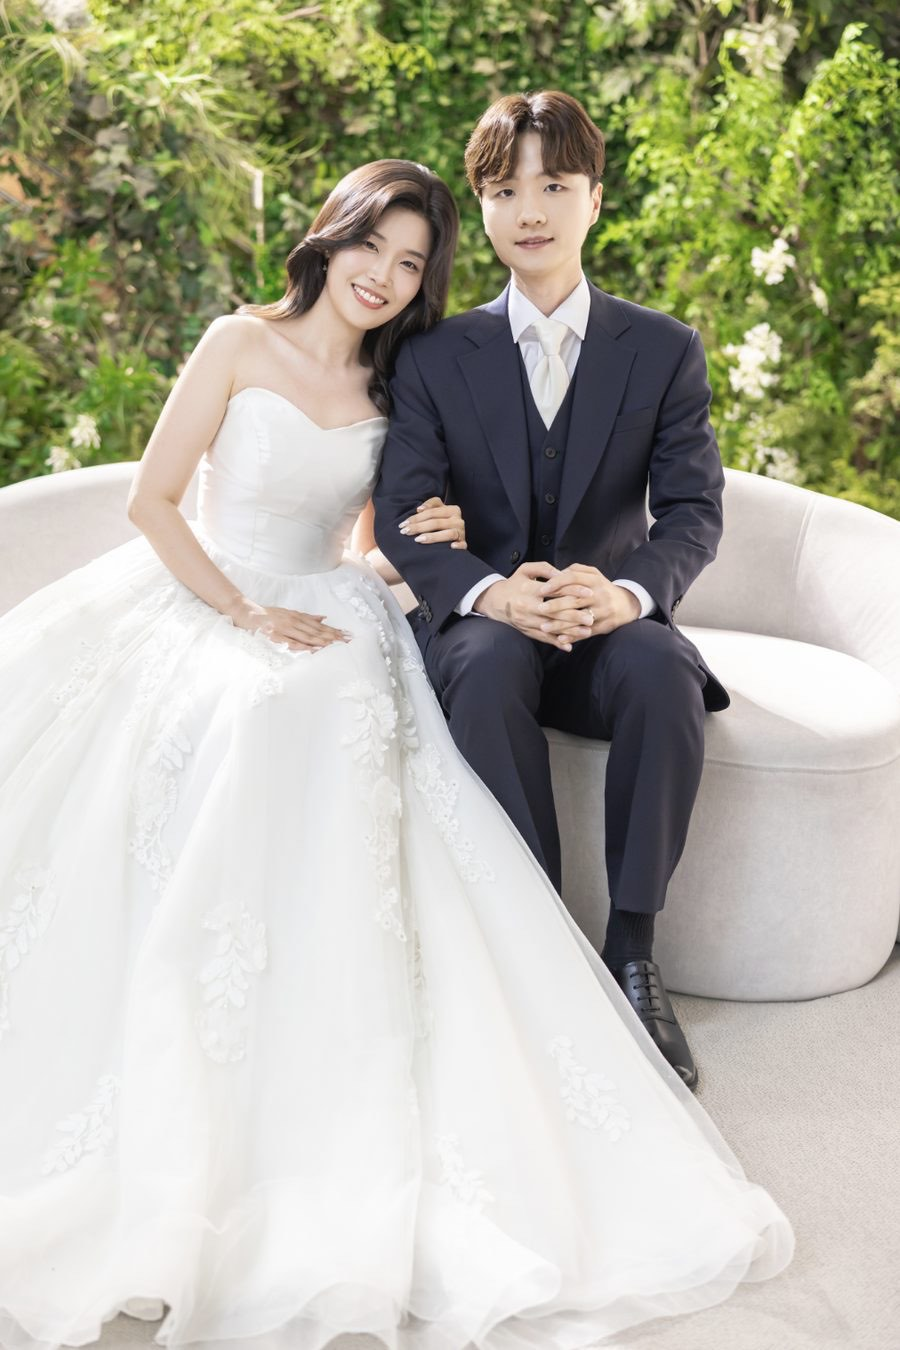
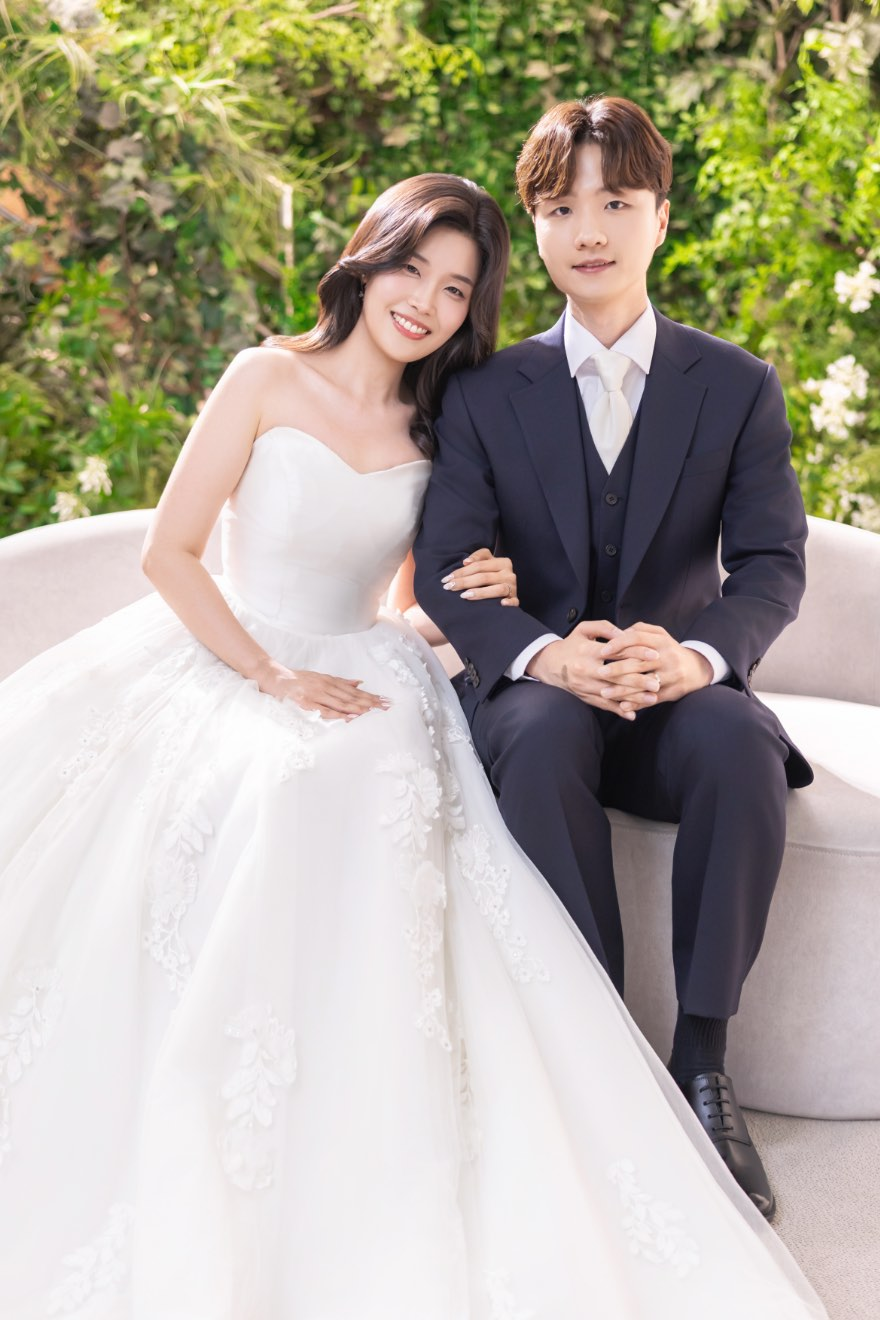
14번 사진 교체 + 신랑 오른쪽 빈 공간 줄이기
같은 가든 소파 두 사람 컷의 새 보정본입니다. 880x1320 으로 잘라
나머지와 같은 2:3 (0.66667) 에 맞췄습니다.

신랑 오른쪽에 소파·초목이 빈 띠처럼 남던 문제: 넘겨받은 원본이
980x1496 (0.655) 로 2:3 보다 좁아서 가로 여유가 0 이라, to_portrait
로는 좌우를 옮길 수 없었습니다. 그래서 오른쪽을 100px 덜어낸 파일을
imgs/I_가든소파두사람.png 로 만들어 원본 자리에 넣었습니다
(build_assets.py 에 이유를 주석으로 남김).

덜어낼 양은 0 / 60 / 100 / 140px 을 나란히 비교해 골랐습니다. 140 은
신랑 어깨가 프레임에 붙어 답답하고, 60 은 빈 띠가 아직 보입니다.

확인: 22장 비율 전부 0.66667(+가로 1장), 썸네일<->원본 22쌍 픽셀 대조
전부 일치, 캐시 없는 프로필에서 로드 실패 0건 / 버전 누락 0건,
14번 탭 -> g14.jpg "14 / 22" (880x1320).

Assisted-by: Claude Code (Opus 5)

diff --git a/index.html b/index.html
@@ -10,7 +10,7 @@
 <meta property="og:title" content="이수영 ♥ 이정은 결혼합니다">
 <meta property="og:description" content="2026년 12월 12일 토요일 오후 4시, 세인트메리엘 1층 메리엘홀">
 <meta property="og:url" content="https://suyoung-lee.github.io/wedding/">
-<meta property="og:image" content="https://suyoung-lee.github.io/wedding/assets/og.jpg?v=8">
+<meta property="og:image" content="https://suyoung-lee.github.io/wedding/assets/og.jpg?v=9">
 <meta name="description" content="2026년 12월 12일 토요일 오후 4시, 세인트메리엘 1층 메리엘홀">
 <meta name="theme-color" content="#fbfaf7">
 
@@ -283,7 +283,7 @@
   <!-- ══════════ 표지 ══════════ -->
   <header class="cover">
     <div class="photo noSave">
-      <img src="assets/cover.jpg?v=8" alt="신랑 이수영, 신부 이정은" draggable="false">
+      <img src="assets/cover.jpg?v=9" alt="신랑 이수영, 신부 이정은" draggable="false">
     </div>
     <div class="fade"></div>
     <div class="frame"></div>
@@ -354,28 +354,28 @@
   <section>
     <p class="label">Gallery</p>
     <div class="grid collapsed noSave" id="grid">
-      <button class="ph wide" type="button" data-full="assets/g01.jpg?v=8" aria-label="웨딩 사진 1번, 크게 보기"><img src="assets/wide.jpg?v=8" alt="" loading="lazy"></button>
-      <button class="ph" type="button" data-full="assets/g02.jpg?v=8" aria-label="웨딩 사진 2번, 크게 보기"><img src="assets/t02.jpg?v=8" alt="" loading="lazy"></button>
-      <button class="ph" type="button" data-full="assets/g03.jpg?v=8" aria-label="웨딩 사진 3번, 크게 보기"><img src="assets/t03.jpg?v=8" alt="" loading="lazy"></button>
-      <button class="ph" type="button" data-full="assets/g04.jpg?v=8" aria-label="웨딩 사진 4번, 크게 보기"><img src="assets/t04.jpg?v=8" alt="" loading="lazy"></button>
-      <button class="ph" type="button" data-full="assets/g05.jpg?v=8" aria-label="웨딩 사진 5번, 크게 보기"><img src="assets/t05.jpg?v=8" alt="" loading="lazy"></button>
-      <button class="ph" type="button" data-full="assets/g06.jpg?v=8" aria-label="웨딩 사진 6번, 크게 보기"><img src="assets/t06.jpg?v=8" alt="" loading="lazy"></button>
-      <button class="ph" type="button" data-full="assets/g07.jpg?v=8" aria-label="웨딩 사진 7번, 크게 보기"><img src="assets/t07.jpg?v=8" alt="" loading="lazy"></button>
-      <button class="ph" type="button" data-full="assets/g08.jpg?v=8" aria-label="웨딩 사진 8번, 크게 보기"><img src="assets/t08.jpg?v=8" alt="" loading="lazy"></button>
-      <button class="ph" type="button" data-full="assets/g09.jpg?v=8" aria-label="웨딩 사진 9번, 크게 보기"><img src="assets/t09.jpg?v=8" alt="" loading="lazy"></button>
-      <button class="ph" type="button" data-full="assets/g10.jpg?v=8" aria-label="웨딩 사진 10번, 크게 보기"><img src="assets/t10.jpg?v=8" alt="" loading="lazy"></button>
-      <button class="ph" type="button" data-full="assets/g11.jpg?v=8" aria-label="웨딩 사진 11번, 크게 보기"><img src="assets/t11.jpg?v=8" alt="" loading="lazy"></button>
-      <button class="ph" type="button" data-full="assets/g12.jpg?v=8" aria-label="웨딩 사진 12번, 크게 보기"><img src="assets/t12.jpg?v=8" alt="" loading="lazy"></button>
-      <button class="ph" type="button" data-full="assets/g13.jpg?v=8" aria-label="웨딩 사진 13번, 크게 보기"><img src="assets/t13.jpg?v=8" alt="" loading="lazy"></button>
-      <button class="ph" type="button" data-full="assets/g14.jpg?v=8" aria-label="웨딩 사진 14번, 크게 보기"><img src="assets/t14.jpg?v=8" alt="" loading="lazy"></button>
-      <button class="ph" type="button" data-full="assets/g15.jpg?v=8" aria-label="웨딩 사진 15번, 크게 보기"><img src="assets/t15.jpg?v=8" alt="" loading="lazy"></button>
-      <button class="ph" type="button" data-full="assets/g16.jpg?v=8" aria-label="웨딩 사진 16번, 크게 보기"><img src="assets/t16.jpg?v=8" alt="" loading="lazy"></button>
-      <button class="ph" type="button" data-full="assets/g17.jpg?v=8" aria-label="웨딩 사진 17번, 크게 보기"><img src="assets/t17.jpg?v=8" alt="" loading="lazy"></button>
-      <button class="ph" type="button" data-full="assets/g18.jpg?v=8" aria-label="웨딩 사진 18번, 크게 보기"><img src="assets/t18.jpg?v=8" alt="" loading="lazy"></button>
-      <button class="ph" type="button" data-full="assets/g19.jpg?v=8" aria-label="웨딩 사진 19번, 크게 보기"><img src="assets/t19.jpg?v=8" alt="" loading="lazy"></button>
-      <button class="ph" type="button" data-full="assets/g20.jpg?v=8" aria-label="웨딩 사진 20번, 크게 보기"><img src="assets/t20.jpg?v=8" alt="" loading="lazy"></button>
-      <button class="ph" type="button" data-full="assets/g21.jpg?v=8" aria-label="웨딩 사진 21번, 크게 보기"><img src="assets/t21.jpg?v=8" alt="" loading="lazy"></button>
-      <button class="ph" type="button" data-full="assets/g22.jpg?v=8" aria-label="웨딩 사진 22번, 크게 보기"><img src="assets/t22.jpg?v=8" alt="" loading="lazy"></button>
+      <button class="ph wide" type="button" data-full="assets/g01.jpg?v=9" aria-label="웨딩 사진 1번, 크게 보기"><img src="assets/wide.jpg?v=9" alt="" loading="lazy"></button>
+      <button class="ph" type="button" data-full="assets/g02.jpg?v=9" aria-label="웨딩 사진 2번, 크게 보기"><img src="assets/t02.jpg?v=9" alt="" loading="lazy"></button>
+      <button class="ph" type="button" data-full="assets/g03.jpg?v=9" aria-label="웨딩 사진 3번, 크게 보기"><img src="assets/t03.jpg?v=9" alt="" loading="lazy"></button>
+      <button class="ph" type="button" data-full="assets/g04.jpg?v=9" aria-label="웨딩 사진 4번, 크게 보기"><img src="assets/t04.jpg?v=9" alt="" loading="lazy"></button>
+      <button class="ph" type="button" data-full="assets/g05.jpg?v=9" aria-label="웨딩 사진 5번, 크게 보기"><img src="assets/t05.jpg?v=9" alt="" loading="lazy"></button>
+      <button class="ph" type="button" data-full="assets/g06.jpg?v=9" aria-label="웨딩 사진 6번, 크게 보기"><img src="assets/t06.jpg?v=9" alt="" loading="lazy"></button>
+      <button class="ph" type="button" data-full="assets/g07.jpg?v=9" aria-label="웨딩 사진 7번, 크게 보기"><img src="assets/t07.jpg?v=9" alt="" loading="lazy"></button>
+      <button class="ph" type="button" data-full="assets/g08.jpg?v=9" aria-label="웨딩 사진 8번, 크게 보기"><img src="assets/t08.jpg?v=9" alt="" loading="lazy"></button>
+      <button class="ph" type="button" data-full="assets/g09.jpg?v=9" aria-label="웨딩 사진 9번, 크게 보기"><img src="assets/t09.jpg?v=9" alt="" loading="lazy"></button>
+      <button class="ph" type="button" data-full="assets/g10.jpg?v=9" aria-label="웨딩 사진 10번, 크게 보기"><img src="assets/t10.jpg?v=9" alt="" loading="lazy"></button>
+      <button class="ph" type="button" data-full="assets/g11.jpg?v=9" aria-label="웨딩 사진 11번, 크게 보기"><img src="assets/t11.jpg?v=9" alt="" loading="lazy"></button>
+      <button class="ph" type="button" data-full="assets/g12.jpg?v=9" aria-label="웨딩 사진 12번, 크게 보기"><img src="assets/t12.jpg?v=9" alt="" loading="lazy"></button>
+      <button class="ph" type="button" data-full="assets/g13.jpg?v=9" aria-label="웨딩 사진 13번, 크게 보기"><img src="assets/t13.jpg?v=9" alt="" loading="lazy"></button>
+      <button class="ph" type="button" data-full="assets/g14.jpg?v=9" aria-label="웨딩 사진 14번, 크게 보기"><img src="assets/t14.jpg?v=9" alt="" loading="lazy"></button>
+      <button class="ph" type="button" data-full="assets/g15.jpg?v=9" aria-label="웨딩 사진 15번, 크게 보기"><img src="assets/t15.jpg?v=9" alt="" loading="lazy"></button>
+      <button class="ph" type="button" data-full="assets/g16.jpg?v=9" aria-label="웨딩 사진 16번, 크게 보기"><img src="assets/t16.jpg?v=9" alt="" loading="lazy"></button>
+      <button class="ph" type="button" data-full="assets/g17.jpg?v=9" aria-label="웨딩 사진 17번, 크게 보기"><img src="assets/t17.jpg?v=9" alt="" loading="lazy"></button>
+      <button class="ph" type="button" data-full="assets/g18.jpg?v=9" aria-label="웨딩 사진 18번, 크게 보기"><img src="assets/t18.jpg?v=9" alt="" loading="lazy"></button>
+      <button class="ph" type="button" data-full="assets/g19.jpg?v=9" aria-label="웨딩 사진 19번, 크게 보기"><img src="assets/t19.jpg?v=9" alt="" loading="lazy"></button>
+      <button class="ph" type="button" data-full="assets/g20.jpg?v=9" aria-label="웨딩 사진 20번, 크게 보기"><img src="assets/t20.jpg?v=9" alt="" loading="lazy"></button>
+      <button class="ph" type="button" data-full="assets/g21.jpg?v=9" aria-label="웨딩 사진 21번, 크게 보기"><img src="assets/t21.jpg?v=9" alt="" loading="lazy"></button>
+      <button class="ph" type="button" data-full="assets/g22.jpg?v=9" aria-label="웨딩 사진 22번, 크게 보기"><img src="assets/t22.jpg?v=9" alt="" loading="lazy"></button>
     </div>
     <button class="more" type="button" id="more">사진 더보기<span class="chev" aria-hidden="true"></span></button>
   </section>
@@ -388,8 +388,8 @@
     <h2>세인트메리엘</h2>
     <p class="sub">1층 메리엘홀</p>
 
-    <a class="mapWrap noSave" href="assets/map-full.png?v=8" target="_blank" rel="noopener">
-      <img src="assets/map.png?v=8" alt="세인트메리엘 약도" loading="lazy" draggable="false">
+    <a class="mapWrap noSave" href="assets/map-full.png?v=9" target="_blank" rel="noopener">
+      <img src="assets/map.png?v=9" alt="세인트메리엘 약도" loading="lazy" draggable="false">
     </a>
     <p class="mapHint">약도를 누르면 크게 볼 수 있습니다</p>
 

diff --git a/build_assets.py b/build_assets.py
@@ -18,8 +18,8 @@ OUT = "assets"
 # index.html 의 이미지 URL 뒤 ?v=N 캐시 버전. 파일명을 그대로 두고 사진 내용만
 # 바꾸면 이미 청첩장을 열어본 브라우저가 캐시된 옛 사진을 계속 보여줍니다
 # (썸네일만 바뀌고 뷰어는 옛 사진이 뜨는 식). 사진을 갈아끼울 때마다 올리세요.
-#   sed -i '' 's/?v=[0-9]*/?v=9/g' index.html
-ASSET_V = 8
+#   sed -i '' 's/?v=[0-9]*/?v=10/g' index.html
+ASSET_V = 9
 os.makedirs(OUT, exist_ok=True)
 
 A = lambda n: os.path.join(SRC, f"KakaoTalk_20260909_203020487{n}.png")
@@ -51,7 +51,11 @@ ORDER = [
     (N("D_옐로플라워두사람"), "옐로 플라워 - 두 사람"),
     (A("_11"), "옐로 플라워 - 신랑"),
     # 가든
-    (A("_07"), "가든 - 두 사람"),
+    # ※ I_가든소파두사람.png 는 넘겨받은 원본(980x1496)에서 오른쪽 100px 을
+    #    미리 덜어낸 파일입니다. 원본은 2:3 보다 좁아서 가로 여유가 0 이라,
+    #    아래 to_portrait 로는 좌우를 못 옮깁니다. 신랑 오른쪽 빈 공간을
+    #    줄이려고 그 손질을 파일에 박아 뒀습니다.
+    (N("I_가든소파두사람"), "가든 - 두 사람"),
     (A("_01"), "가든 - 두 사람"),
     (A("_06"), "가든 - 잎사귀 배경"),
     (N("G_가든소파신부_정면"),     "가든 - 소파 신부"),
@@ -84,7 +88,7 @@ FACE = [
     (0.750, 0.188),   # 11 레드 부케
     (0.520, 0.319),   # 12 옐로 두 사람
     (0.423, 0.176),   # 13 옐로 신랑
-    (0.511, 0.180),   # 14 가든 두 사람
+    (0.582, 0.177),   # 14 가든 두 사람 (오른쪽 100px 덜어낸 원본 기준)
     (0.569, 0.187),   # 15 가든 두 사람
     (0.514, 0.513),   # 16 가든 잎사귀
     (0.504, 0.263),   # 17 가든 소파 신부 (정면)
